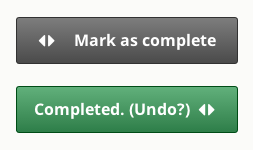
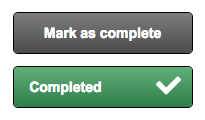
Customize button and actually resolve CSS

diff --git a/done/static/css/done.css b/done/static/css/done.css
@@ -26,7 +26,7 @@
 
 .done_onoffswitch-label {
     display: block; overflow: hidden; cursor: pointer;
-    border: 2px solid #999999; border-radius: 10px;
+    border: 1px solid #000; border-radius: 5px;
 }
 
 .done_onoffswitch-inner {
@@ -39,110 +39,26 @@
 }
 
 .done_onoffswitch-inner:before, .done_onoffswitch-inner:after {
-    display: block; float: left; width: 50%; height: 30px; padding: 0; line-height: 30px;
+    display: block; float: left; width: 50%; height: 40px; padding: 5px; line-height: 30px;
     font-size: 14px; color: white; font-family: Trebuchet, Arial, sans-serif; font-weight: bold;
     -moz-box-sizing: border-box; -webkit-box-sizing: border-box; box-sizing: border-box;
 }
 
 .done_onoffswitch-inner:after {
     content: "Mark as complete";
-    padding-left: 40px;
-    background-color: rgb(0, 158, 231); color: #FFFFFF;
-}
-.done_onoffswitch-inner:before {
-    content: "Unmark";
-    padding-right: 100px;
-    background-color: #EEEEEE; color: #999999;
-    text-align: right;
-}
-
-/* Old stuff
-
-.done_windshield_animated {
-    -webkit-transition: background-color 0.4s, color 0.4s, background-image 0.4s;
-    transition: background-color 0.4s, color 0.4s, background-image 0.4s;
-}
-
-.done_windshield {
-    cursor: pointer;
-    width:200px; 
-    height:100%;
-    padding: 5px 10px;
-    border-radius: 3px;
-    font-family: 'Open Sans', Verdana, Geneva, sans-serif, sans-serif;
-    font-size: 16px;
-    font-weight: bold;
-    letter-spacing: normal;
-}
-
-.done_windshield_on {
-    -webkit-font-smoothing: antialiased;
     background-color: #666;
     background-image: linear-gradient(rgb(125, 125, 125), rgb(75, 75, 75));
-    border-radius: 3px;
-    border: 1px solid rgb(50, 50, 50);
     color: #fff;
+    text-align: center;
 }
-
-.done_windshield_off {
-    -webkit-font-smoothing: antialiased;
+.done_onoffswitch-inner:before {
+    content: "Completed";
+    padding-right: 90px;
     background-color: #696;
     background-image: linear-gradient(rgb(100, 175, 125), rgb(50, 125, 75));
-    border-radius: 3px;
-    border: 1px solid rgb(0, 75, 25);
     color: #fff;
+    text-align: right;
 }
-
-.done_windshield_on .done_wipe_on {
-    position: relative;
-    left: 10px;
-    display:inline-block;
-    width:80%;
-    overflow:hidden;
-    text-overflow: clip;
-    white-space:nowrap;
-}
-
-.done_windshield_off .done_wipe_on {
-    display:inline-block;
-    width:0;
-    overflow:hidden;
-    text-overflow: clip;
-    white-space:nowrap;
-}
-
-.done_wiper {
-    position: relative;
-    bottom: 3px;
-    left: 5px;
-    display: inline-block;
-    width: 10%;
-    height: 25px;
-    font-size: 20px;
-    text-align: center;
-    font-style: normal !important;
-}
-
-.done_windshield_off .done_wipe_off {
-    position: relative;
-    left: 5px;
-    display:inline-block;
-    width:80%;
-    overflow:hidden;
-    text-overflow: clip;
-    white-space:nowrap;
-}
-
-.done_windshield_on .done_wipe_off {
-    display:inline-block;
-    width:0;
-    overflow:hidden;
-    text-overflow: clip;
-    white-space: nowrap;
-}
-
-End Old stuff
-*/
 
 .done_animated .done_onoffswitch-switch {
     -moz-transition: all 0.1s ease-in 0s; -webkit-transition: all 0.1s ease-in 0s;
@@ -150,12 +66,11 @@ End Old stuff
 }
 
 .done_onoffswitch-switch {
-    height: 18px;
-    display: block; width: 18px; margin: 6px 6px 6px 6px;
-    padding: -20px -20px -20px -20px;
+    height: 25px;
+    display: block; width: 25px; margin: 7px;
     background-position: center;
-    border: 2px solid #999999; border-radius: 20px;
-    position: absolute; top: 0; bottom: 0; right: 146px;
+    background-size: 25px 25px;
+    position: absolute; top: 0; bottom: 0; right: 138px;
     content: "X";
     text-color:black;
 }
@@ -165,7 +80,7 @@ End Old stuff
 }
 
 .done_onoffswitch-checkbox:checked + .done_onoffswitch-label .done_onoffswitch-switch {
-    right: 0px; 
+    right: 5px;
 }
 
 .done-checked {

diff --git a/done/static/js/src/done.js b/done/static/js/src/done.js
@@ -9,10 +9,8 @@ if (typeof Logger === 'undefined') {
 function update_knob(element, data) {
   if($('.done_onoffswitch-checkbox', element).prop("checked")) {
     $(".done_onoffswitch-switch", element).css("background-image", "url("+data['checked']+")");
-    $(".done_onoffswitch-switch", element).css("background-color", "#018801;");
   } else {
-    $(".done_onoffswitch-switch", element).css("background-image", "url("+data['unchecked']+")");
-    $(".done_onoffswitch-switch", element).css("background-color", "#FFFFFF;");
+    $(".done_onoffswitch-switch", element).css("background-image", "none");
   }
 }
 
